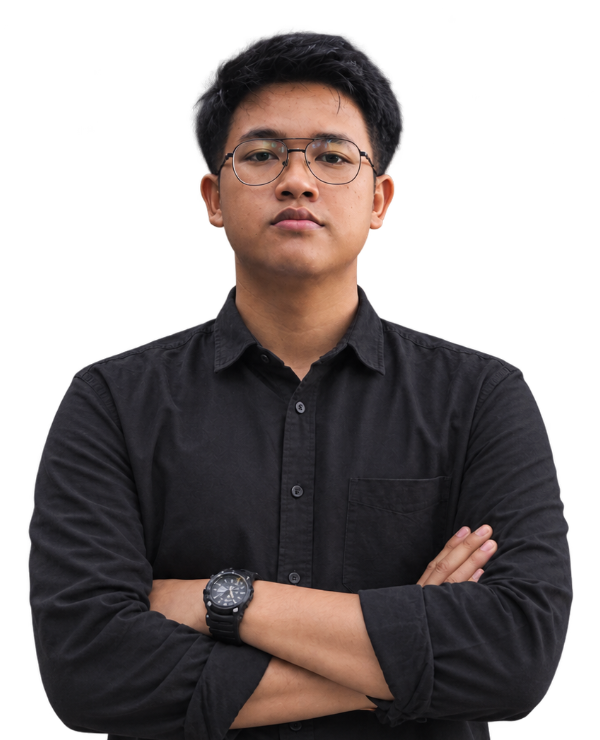
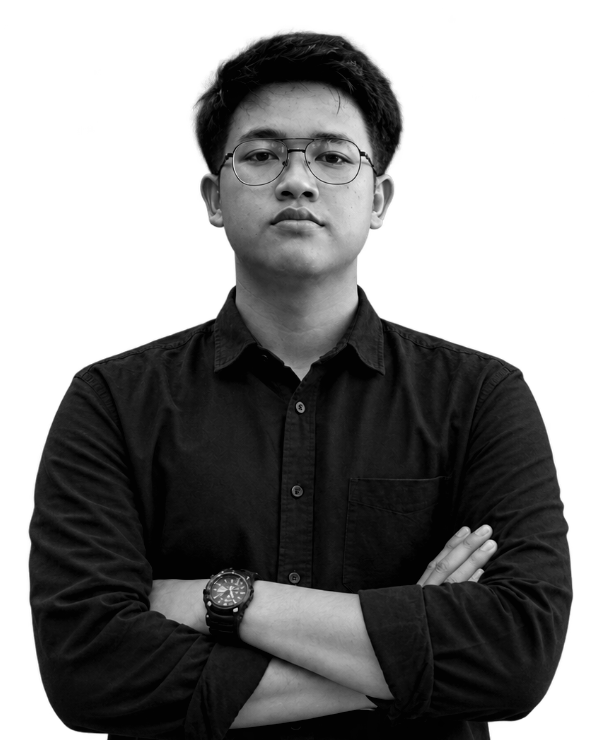
feat(ui): display all team portrait photos in black and white

diff --git a/app/(public)/tentang-kami/page.tsx b/app/(public)/tentang-kami/page.tsx
@@ -172,7 +172,7 @@ export default function TentangKamiPage() {
                       key={idx}
                       src={member.image}
                       alt={member.name}
-                      className="inline-block h-8 w-8 sm:h-9 sm:w-9 rounded-full ring-2 ring-white object-cover object-top shadow-2xs"
+                      className="inline-block h-8 w-8 sm:h-9 sm:w-9 rounded-full ring-2 ring-white object-cover object-top shadow-2xs grayscale contrast-105"
                     />
                   ) : (
                     <div
@@ -317,7 +317,7 @@ export default function TentangKamiPage() {
                         <img
                           src={member.image}
                           alt={member.name}
-                          className="w-full h-full object-cover object-top drop-shadow-2xl group-hover:scale-105 transition-transform duration-300 pointer-events-none"
+                          className="w-full h-full object-cover object-top drop-shadow-2xl grayscale contrast-105 group-hover:scale-105 transition-transform duration-300 pointer-events-none"
                         />
                       ) : (
                         <div className="w-full h-full flex flex-col items-center justify-end pb-8 sm:pb-10">

diff --git a/app/(public)/tim/page.tsx b/app/(public)/tim/page.tsx
@@ -106,7 +106,7 @@ export default function TimPage() {
                     <img
                       src={member.image}
                       alt={member.name}
-                      className="w-24 h-24 rounded-full object-cover object-top border-2 border-[#CBDFF5] shadow-sm mb-3"
+                      className="w-24 h-24 rounded-full object-cover object-top border-2 border-[#CBDFF5] shadow-sm mb-3 grayscale contrast-105"
                     />
                   ) : (
                     <>
